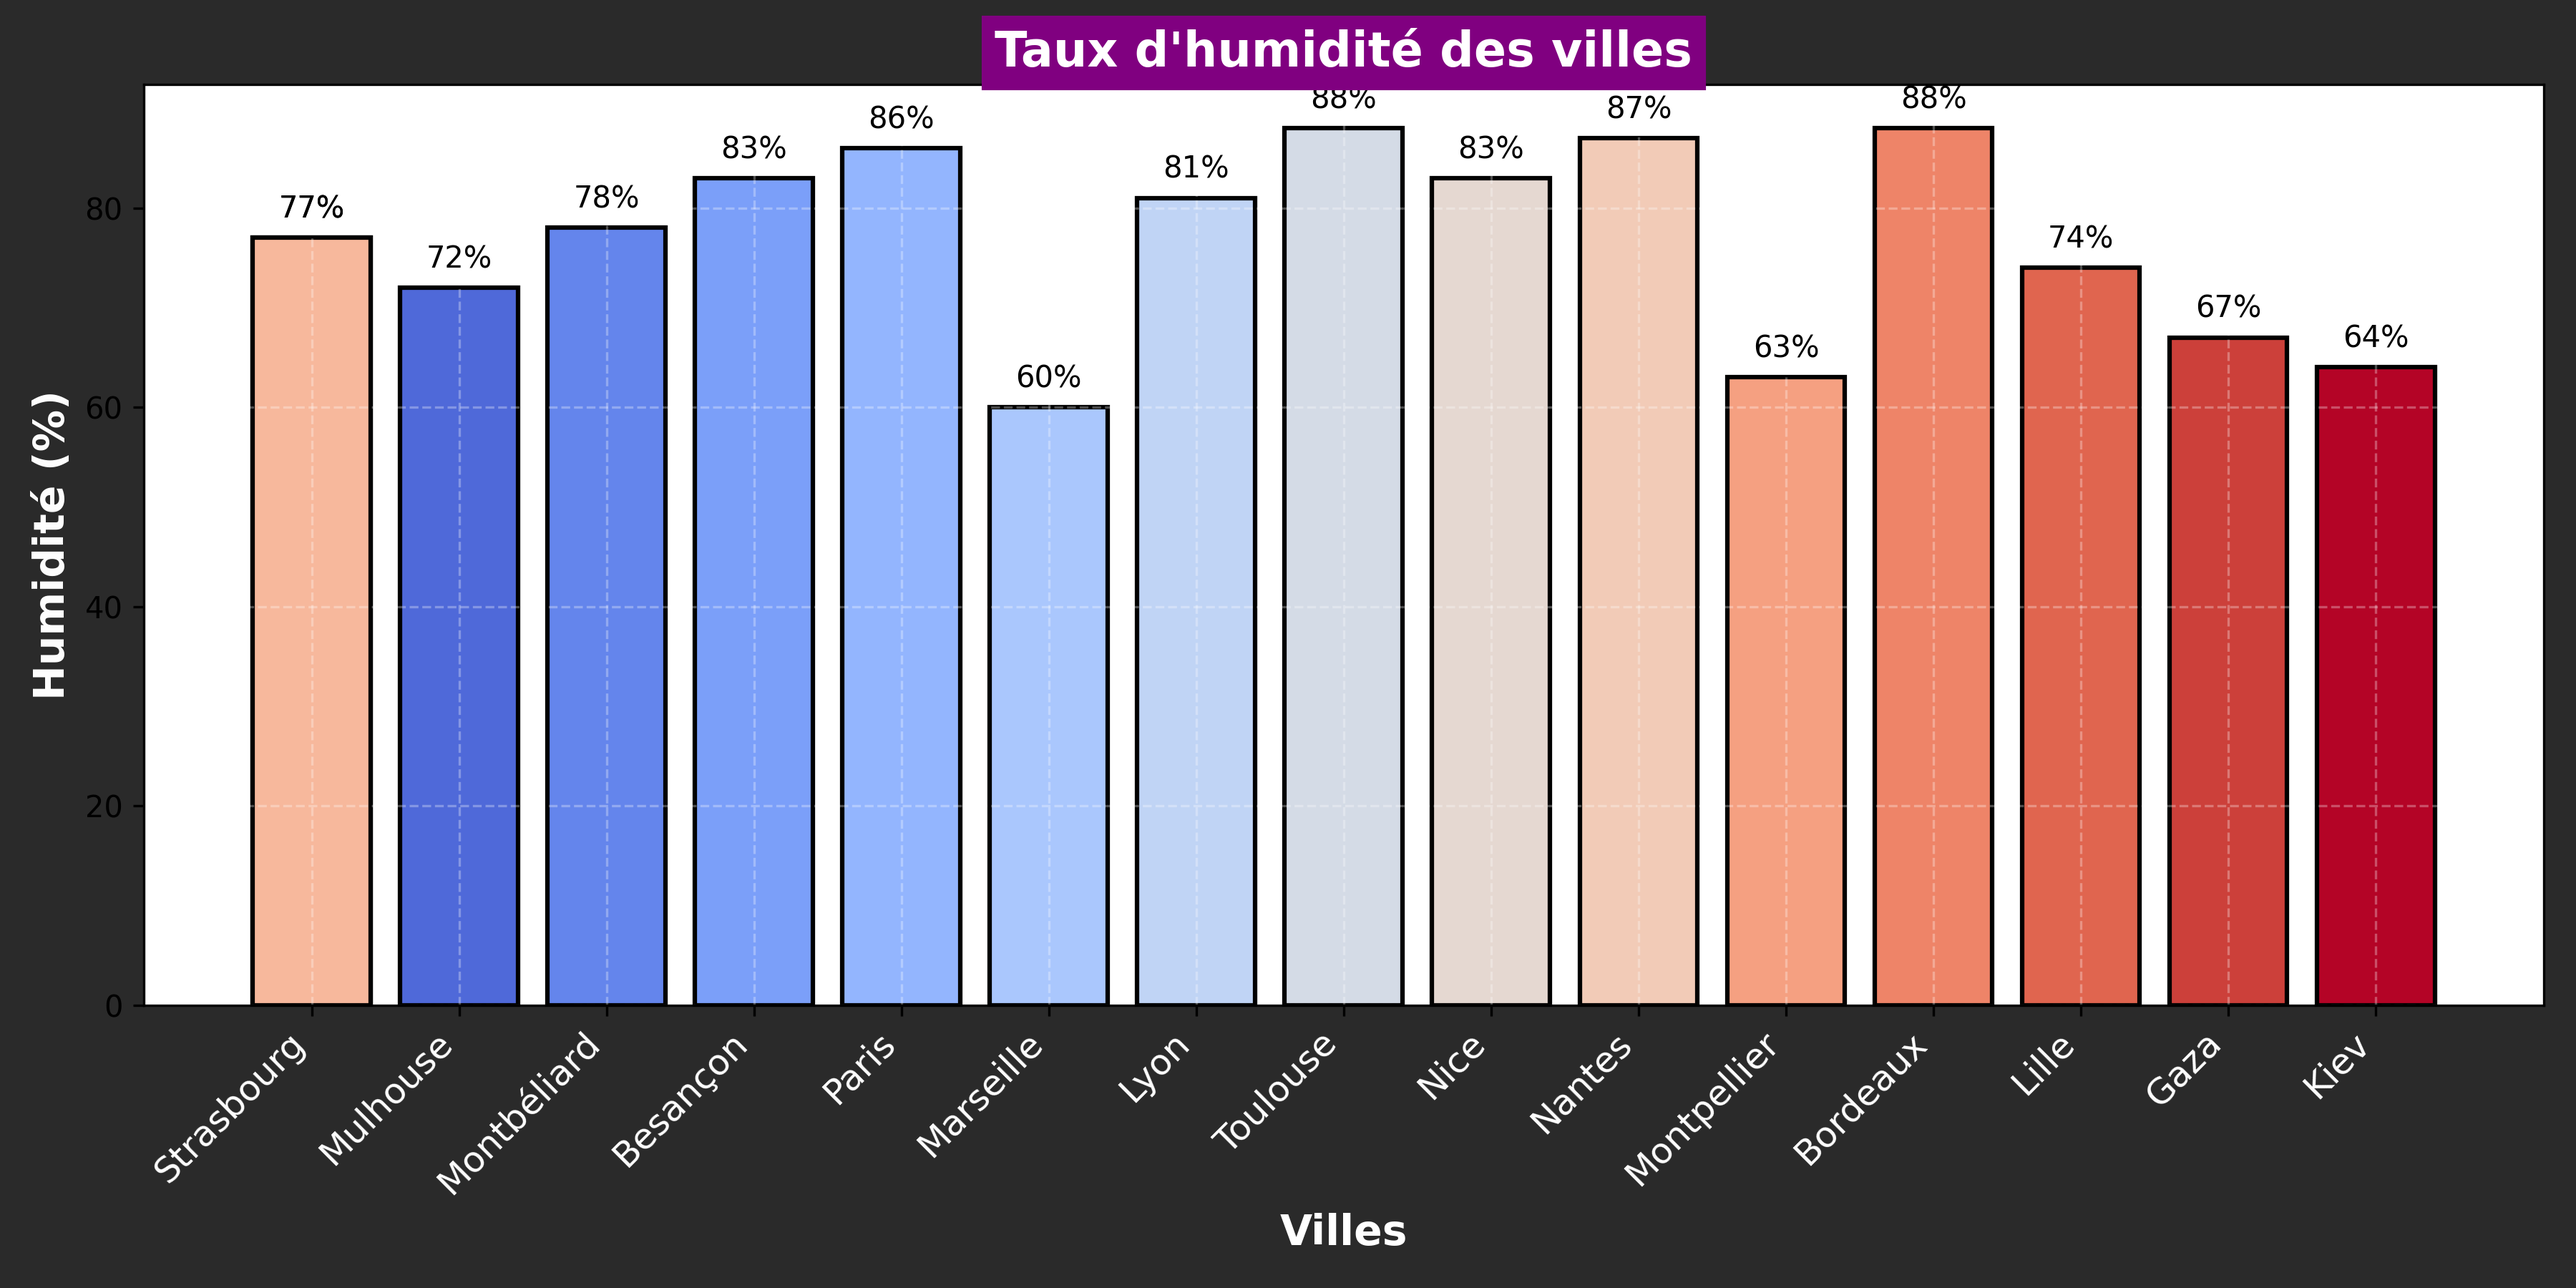
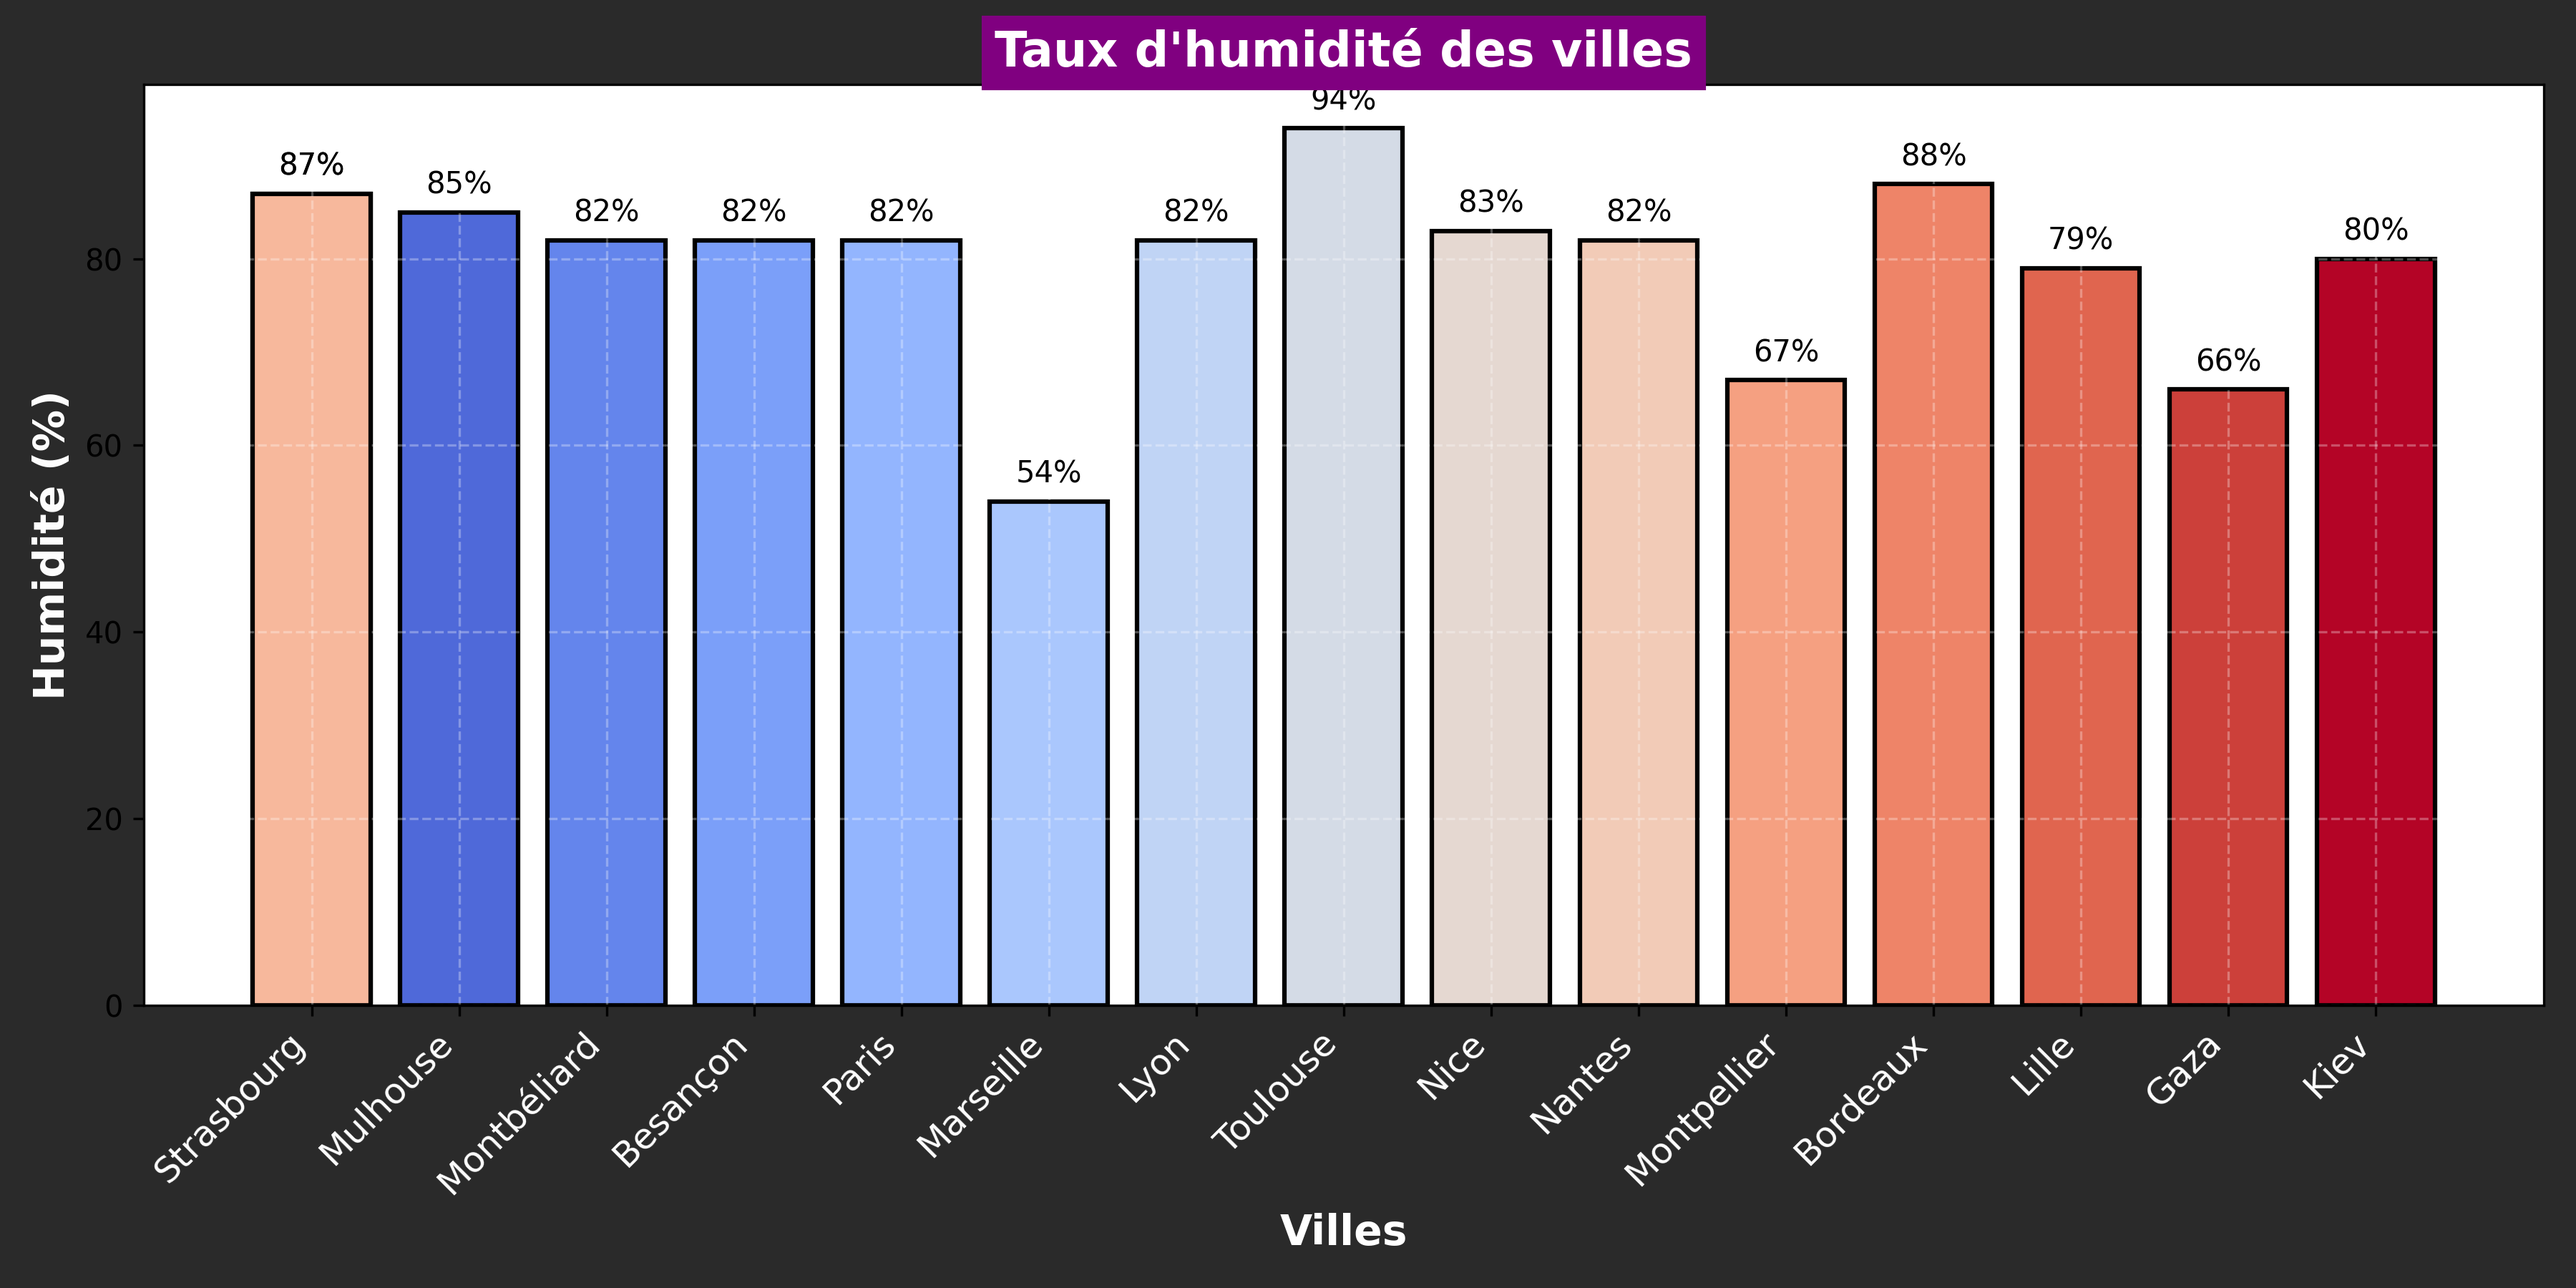
Mise à jour de la météo et ajout du graphique d'humidité

diff --git a/README.md b/README.md
@@ -24,103 +24,103 @@ Ce repo contient plusieurs workflows GitHub Actions :
 ## Météo actuelle :
 ## Météo des grandes villes + Gaza et Kiev 🌍
 
-🕒 Mise à jour : 08/06/2025 08:17:16
+🕒 Mise à jour : 09/06/2025 08:19:37
 
-### 🌍 Strasbourg 🌥
-**Conditions :** nuageux
-**Température :** 15.95°C
-**Humidité :** 77%
-**Vent :** 7.72 m/s
-
-### 🌍 Mulhouse 🌥
-**Conditions :** nuageux
-**Température :** 15.85°C
-**Humidité :** 72%
-**Vent :** 5.81 m/s
-
-### 🌍 Montbéliard 🌥
-**Conditions :** couvert
-**Température :** 15.54°C
-**Humidité :** 78%
-**Vent :** 5.84 m/s
-
-### 🌍 Besançon 🌥
-**Conditions :** couvert
-**Température :** 13.55°C
-**Humidité :** 83%
-**Vent :** 5.05 m/s
-
-### 🌍 Paris 🌥
-**Conditions :** nuageux
-**Température :** 12.58°C
-**Humidité :** 86%
-**Vent :** 5.66 m/s
-
-### 🌍 Marseille ☀
+### 🌍 Strasbourg ☀
 **Conditions :** ciel dégagé
-**Température :** 17.83°C
-**Humidité :** 60%
-**Vent :** 5.36 m/s
-
-### 🌍 Lyon 🌥
-**Conditions :** peu nuageux
-**Température :** 13.69°C
-**Humidité :** 81%
-**Vent :** 1.89 m/s
-
-### 🌍 Toulouse ☀
-**Conditions :** ciel dégagé
-**Température :** 14.99°C
-**Humidité :** 88%
-**Vent :** 1.54 m/s
-
-### 🌍 Nice ☀
-**Conditions :** ciel dégagé
-**Température :** 14.72°C
-**Humidité :** 83%
-**Vent :** 1.05 m/s
-
-### 🌍 Nantes ☀
-**Conditions :** ciel dégagé
-**Température :** 11.96°C
+**Température :** 12.01°C
 **Humidité :** 87%
 **Vent :** 1.54 m/s
 
-### 🌍 Strasbourg 🌥
-**Conditions :** nuageux
-**Température :** 15.95°C
-**Humidité :** 77%
-**Vent :** 7.72 m/s
+### 🌍 Mulhouse ☀
+**Conditions :** ciel dégagé
+**Température :** 11.68°C
+**Humidité :** 85%
+**Vent :** 1.54 m/s
+
+### 🌍 Montbéliard ☀
+**Conditions :** ciel dégagé
+**Température :** 14.43°C
+**Humidité :** 82%
+**Vent :** 1.57 m/s
+
+### 🌍 Besançon ☀
+**Conditions :** ciel dégagé
+**Température :** 12.72°C
+**Humidité :** 82%
+**Vent :** 1.27 m/s
+
+### 🌍 Paris 🌥
+**Conditions :** couvert
+**Température :** 13.24°C
+**Humidité :** 82%
+**Vent :** 2.06 m/s
+
+### 🌍 Marseille ☀
+**Conditions :** ciel dégagé
+**Température :** 15.84°C
+**Humidité :** 54%
+**Vent :** 2.74 m/s
+
+### 🌍 Lyon ☀
+**Conditions :** ciel dégagé
+**Température :** 10.75°C
+**Humidité :** 82%
+**Vent :** 1 m/s
+
+### 🌍 Toulouse ☀
+**Conditions :** ciel dégagé
+**Température :** 13.99°C
+**Humidité :** 94%
+**Vent :** 1.54 m/s
+
+### 🌍 Nice 🌥
+**Conditions :** peu nuageux
+**Température :** 14.72°C
+**Humidité :** 83%
+**Vent :** 0.5 m/s
+
+### 🌍 Nantes ☀
+**Conditions :** ciel dégagé
+**Température :** 12.96°C
+**Humidité :** 82%
+**Vent :** 2.06 m/s
+
+### 🌍 Strasbourg ☀
+**Conditions :** ciel dégagé
+**Température :** 12.01°C
+**Humidité :** 87%
+**Vent :** 1.54 m/s
 
 ### 🌍 Montpellier ☀
 **Conditions :** ciel dégagé
-**Température :** 19.16°C
-**Humidité :** 63%
-**Vent :** 5.14 m/s
+**Température :** 18.05°C
+**Humidité :** 67%
+**Vent :** 4.63 m/s
 
 ### 🌍 Bordeaux ☀
 **Conditions :** ciel dégagé
-**Température :** 16.15°C
+**Température :** 13.15°C
 **Humidité :** 88%
+**Vent :** 2.06 m/s
+
+### 🌍 Lille ☀
+**Conditions :** ciel dégagé
+**Température :** 11.51°C
+**Humidité :** 79%
 **Vent :** 1.54 m/s
 
-### 🌍 Lille 🌥
-**Conditions :** couvert
-**Température :** 11.93°C
-**Humidité :** 74%
-**Vent :** 5.66 m/s
+### 🌍 Gaza 🌥
+**Conditions :** peu nuageux
+**Température :** 25.84°C
+**Humidité :** 66%
+**Vent :** 3.21 m/s
 
-### 🌍 Gaza ☀
-**Conditions :** ciel dégagé
-**Température :** 26.9°C
-**Humidité :** 67%
-**Vent :** 2.68 m/s
-
-### 🌍 Kiev ☀
-**Conditions :** ciel dégagé
-**Température :** 22.56°C
-**Humidité :** 64%
-**Vent :** 5.59 m/s
+### 🌍 Kiev 🌥
+**Conditions :** partiellement nuageux
+**Température :** 20.96°C
+**Humidité :** 80%
+**Vent :** 0.89 m/s
 
 <p align='center'><img src='https://raw.githubusercontent.com/khoa083/khoa/main/Khoa_ne/img/Rainbow.gif' width='100%' style='border-radius: 5px; border: 3px solid #39FF14; box-shadow: 0 0 10px #39FF14, 0 0 20px #39FF14;' /></p>
 
